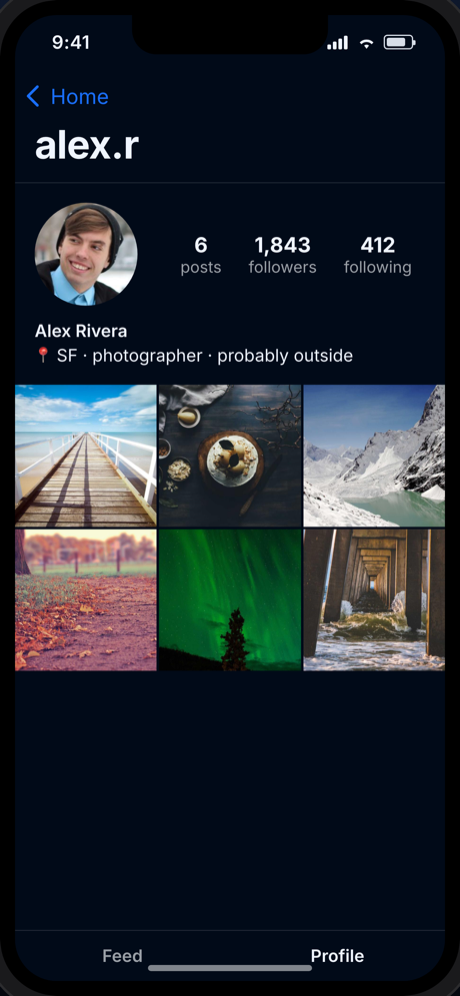
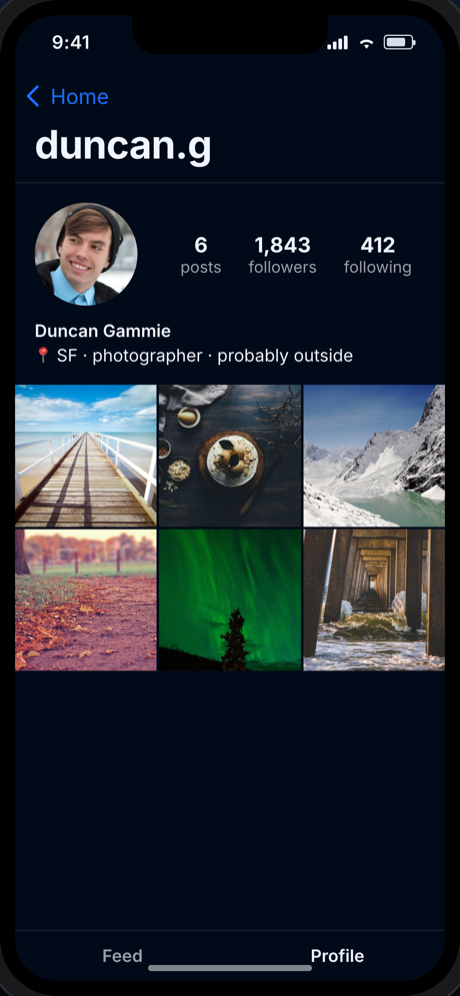
Replace sample persona name with Duncan Gammie
Update demo data, example JSON, README, and the home/Instagram
screenshots to use 'Duncan Gammie' (handle duncan.g).

Changed region(s): [[0.0609, 0.1245, 0.4565, 0.1867], [0.0609, 0.3112, 0.3652, 0.3424]]

diff --git a/src/demo/main.tsx b/src/demo/main.tsx
@@ -11,7 +11,7 @@ const initialApp = (params.get("app") as AppId) || undefined;
 const initialSearch = params.get("search") ?? undefined;
 
 const SAMPLE_CONFIG: PhoneData = {
-  owner: { name: "Alex Rivera" },
+  owner: { name: "Duncan Gammie" },
   wallpaper: "linear-gradient(160deg,#1a2a4a,#0a1020 70%,#1a1030)",
   statusTime: "9:41",
   apps: sampleApps,

diff --git a/src/demo/sampleData.ts b/src/demo/sampleData.ts
@@ -90,8 +90,8 @@ export const sampleApps: PhoneApps = {
 
   instagram: {
     profile: {
-      username: "alex.r",
-      displayName: "Alex Rivera",
+      username: "duncan.g",
+      displayName: "Duncan Gammie",
       avatar: face(8),
       bio: "📍 SF · photographer · probably outside",
       postsCount: 6,

diff --git a/README.md b/README.md
@@ -18,7 +18,7 @@ import { Phone } from "@gammieduncan/phone-ui";
 import "@gammieduncan/phone-ui/styles.css";
 
 <Phone
-  owner={{ name: "Alex Rivera" }}
+  owner={{ name: "Duncan Gammie" }}
   wallpaper="linear-gradient(160deg,#1a2a4a,#0a1020)"
   apps={{
     messages: { chats: [...] },
@@ -83,7 +83,7 @@ The file is a single object — see the ready-to-edit **[`examples/phone-data.js
 
 ```json
 {
-  "owner": { "name": "Alex Rivera" },
+  "owner": { "name": "Duncan Gammie" },
   "wallpaper": "linear-gradient(160deg,#1a2a4a,#0a1020)",
   "statusTime": "9:41",
   "apps": {
